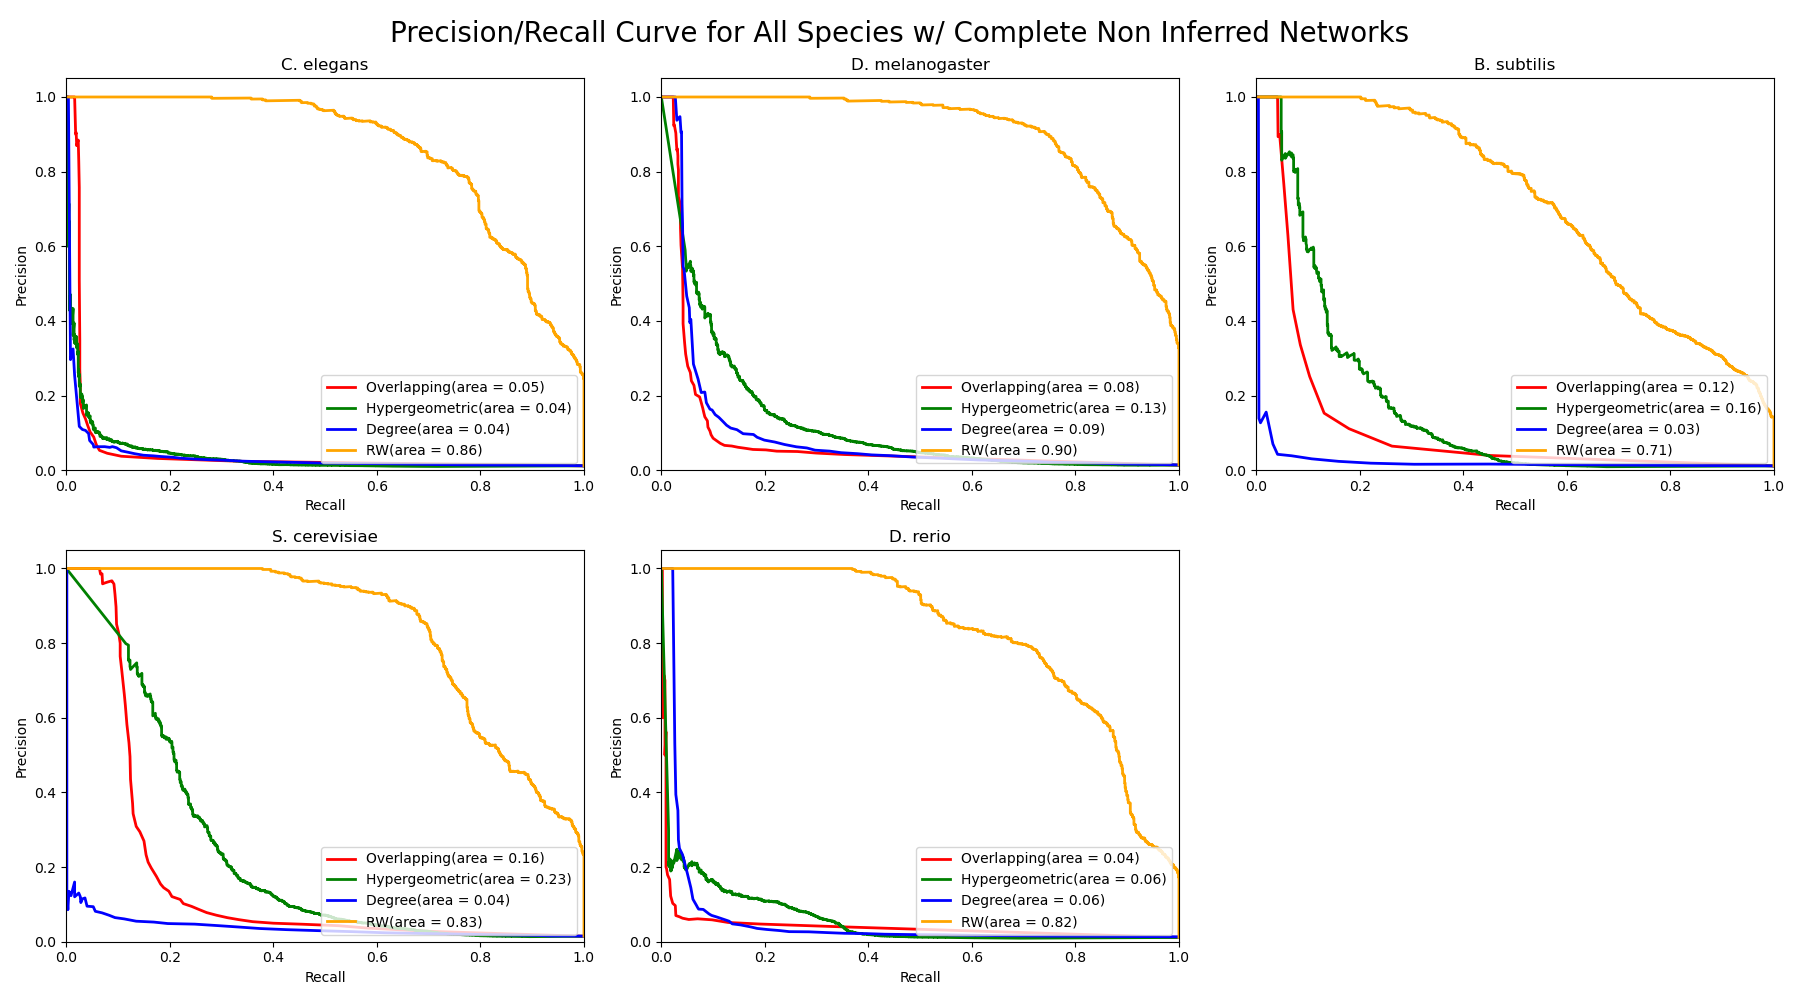
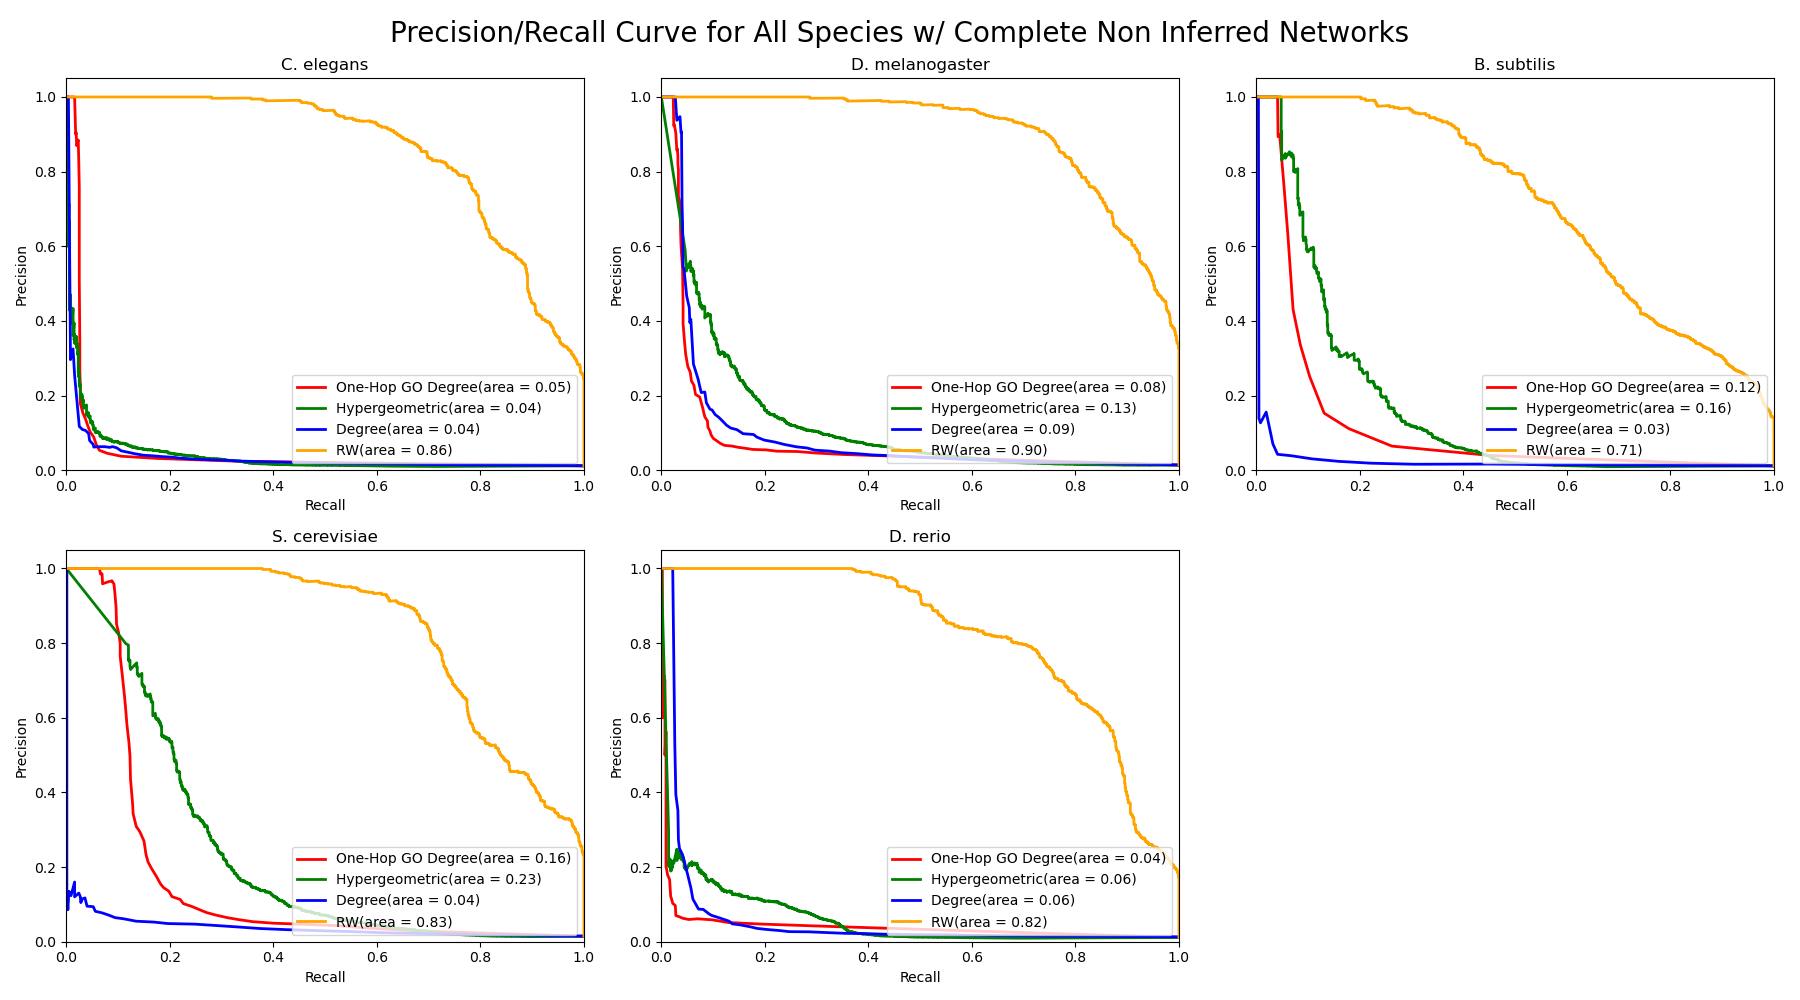
updated names for methods

diff --git a/generate_figures.py b/generate_figures.py
@@ -111,7 +111,7 @@ def main():
                 "precision": precision_list,
                 "recall": recall_list,
                 "pr": pr_auc_list,
-                "method": ["Overlapping", "Hypergeometric", "Degree", "RW"],
+                "method": ["One-Hop GO Degree", "Hypergeometric", "Degree", "RW"],
             }
             final_category_data[species].append(species_data)
 
